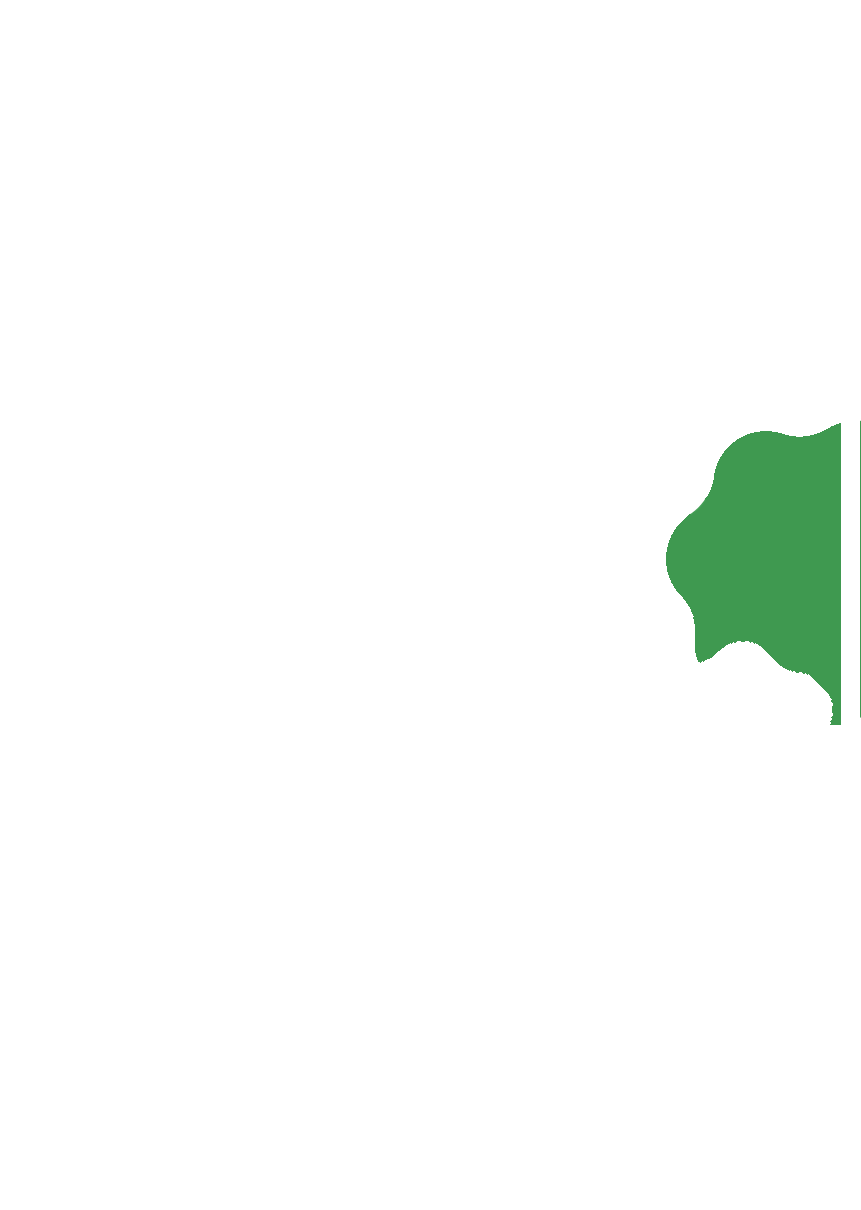
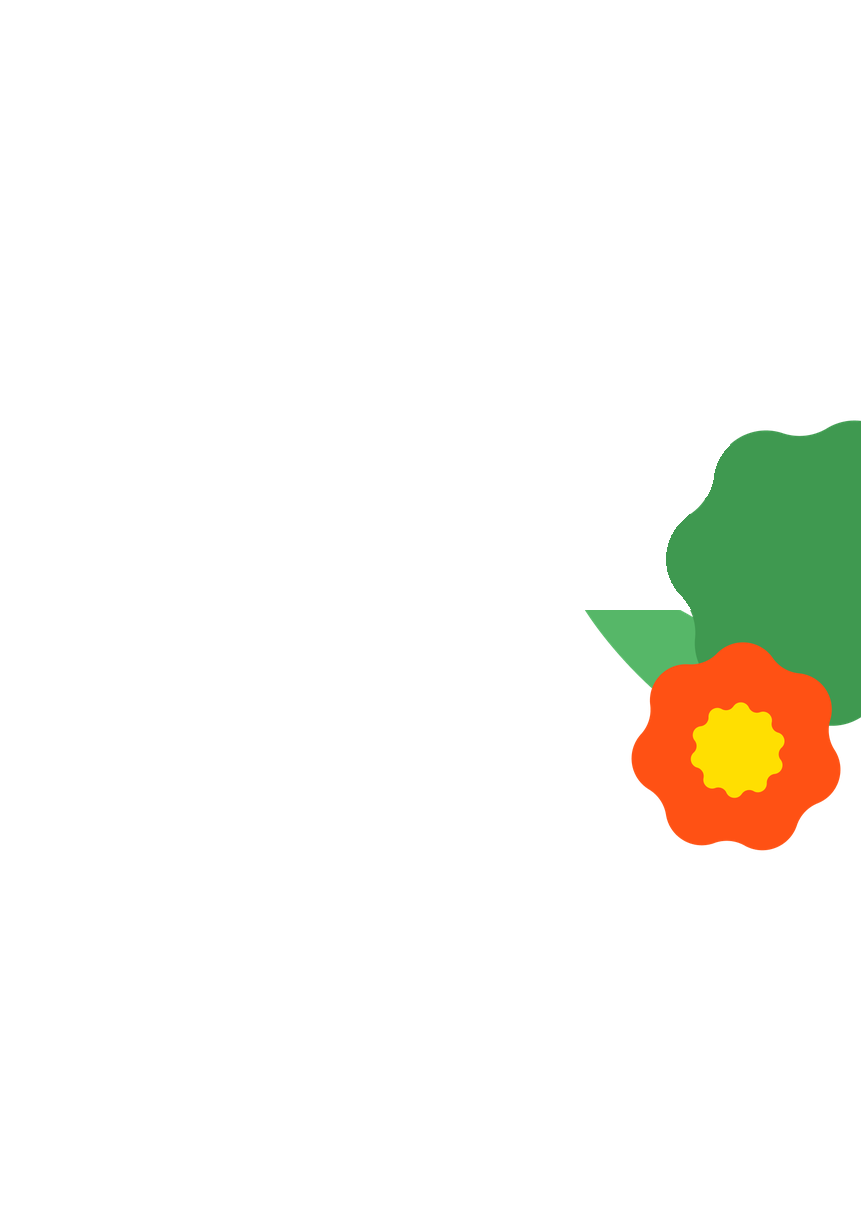
fix(community): restore lost decor below ants (TR orange flower + leaves)
Previous repaint mask used the full-image 'orange' detection to compute
the ant_scene bbox — which captured both the ant body AND the orange
flower below, then accidentally erased the flower along with the ant.

Now the ant region is supplied explicitly per PNG (TL: y330-750, TR:
y340-610), so only pixels inside that region are touched. All decor
outside (orange flower with yellow center, green leaves, pink+cyan
flowers in TL) is preserved untouched.

Changed region(s): [[0.6643, 0.3364, 1.0, 0.7033]]

diff --git a/css/site.css b/css/site.css
@@ -635,8 +635,8 @@ a.card:hover, a.card-link:hover { color: inherit; }
      «Стіна слави» і «Відгуки» (як у Figma). */
   --comm-spread: 5vw;
   --comm-drop: 11vw;
-  background-image: url(../assets/comm-decor-tl-noant.png?v=3),
-                    url(../assets/comm-decor-tr-noant.png?v=4),
+  background-image: url(../assets/comm-decor-tl-noant.png?v=4),
+                    url(../assets/comm-decor-tr-noant.png?v=5),
                     url(../assets/comm-decor-bl.png?v=2),
                     url(../assets/comm-decor-br.png?v=2);
   background-repeat: no-repeat, no-repeat, no-repeat, no-repeat;

diff --git a/community.html b/community.html
@@ -10,7 +10,7 @@
 <link rel="manifest" href="assets/site.webmanifest">
 <link rel="preconnect" href="https://fonts.googleapis.com"><link rel="preconnect" href="https://fonts.gstatic.com" crossorigin>
 <link rel="stylesheet" href="https://fonts.googleapis.com/css2?family=Unbounded:wght@600;700;800&family=Inter:wght@400;500;600;700&display=swap">
-<link rel="stylesheet" href="css/site.css?v=20260528aa">
+<link rel="stylesheet" href="css/site.css?v=20260528ab">
 </head>
 <body>
 <header class="site-header"><div class="container site-header__inner">
